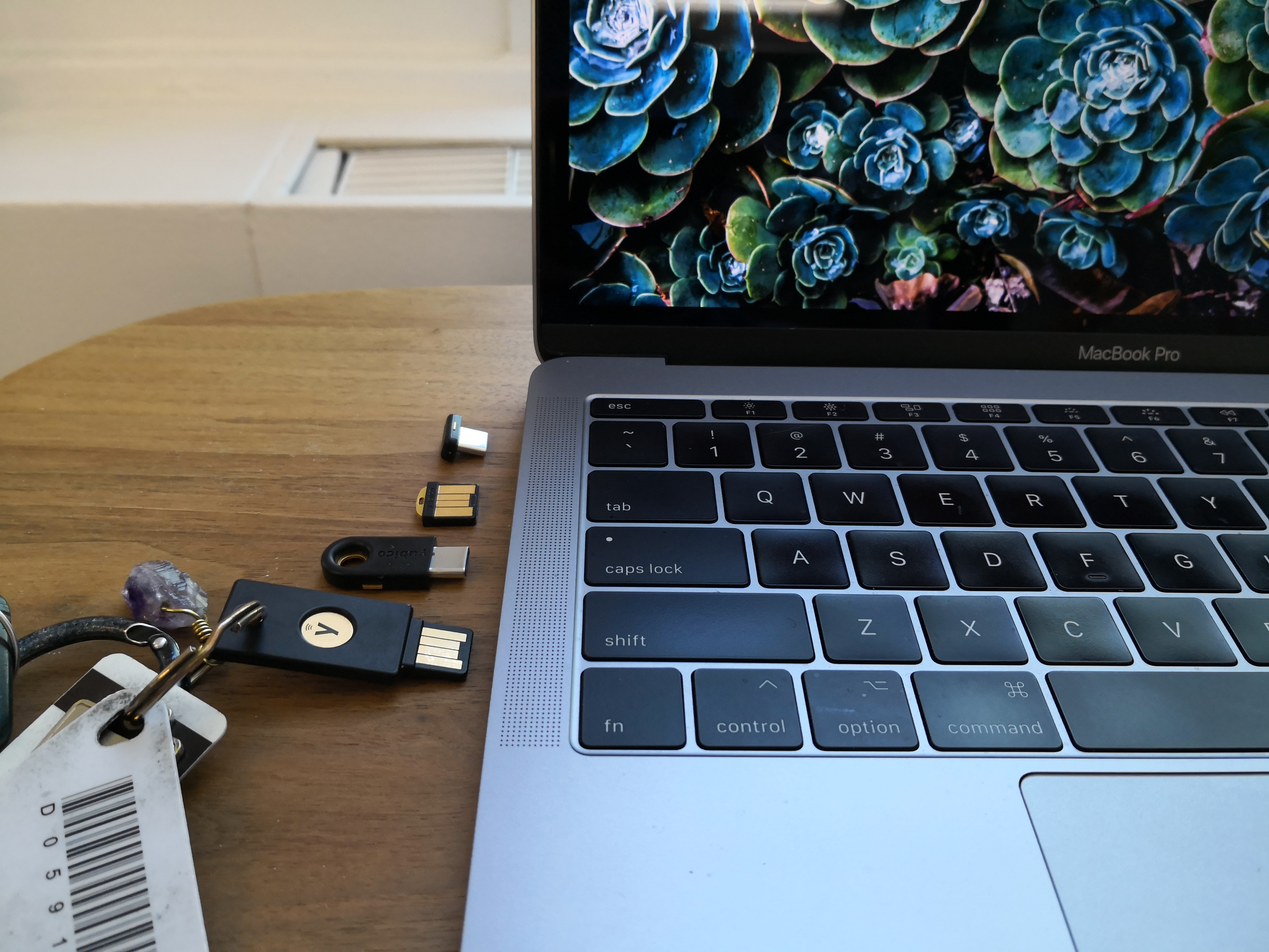
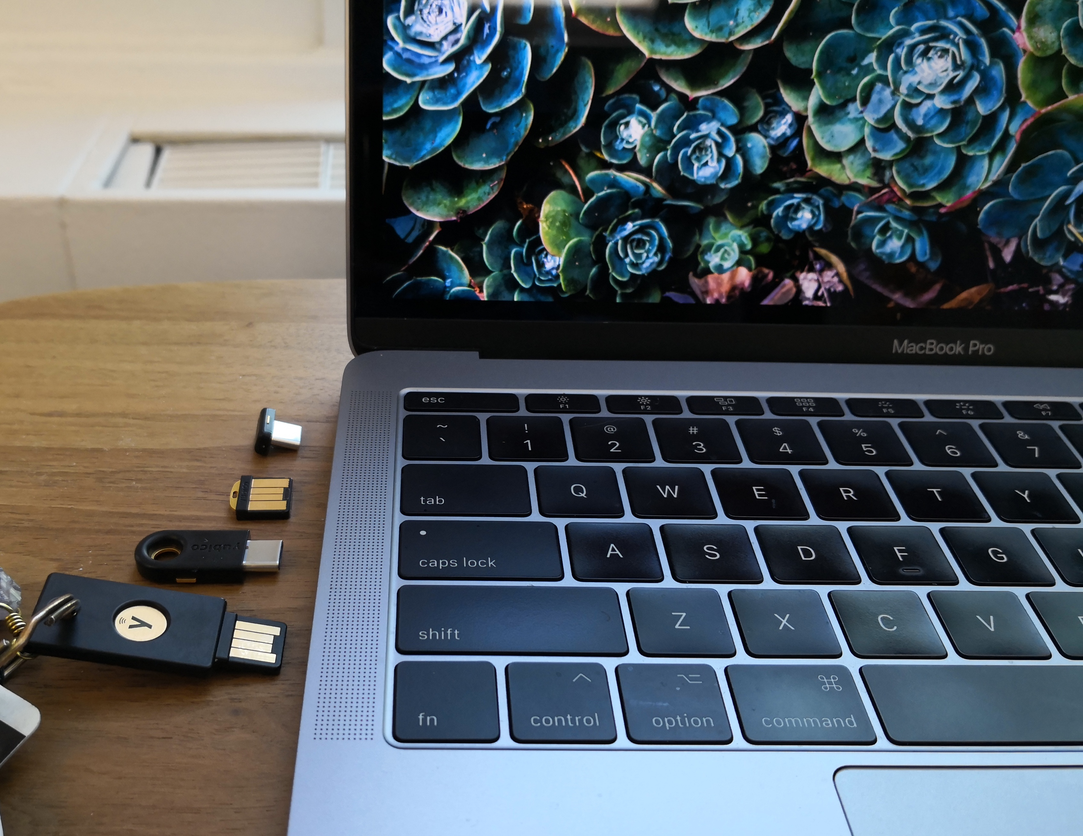
changed pic

diff --git a/content/fr/blog/posts/la-sécurité-c’est-sérieux-nous-avons-tous-des-clés-de-sécurité-au-snc.md b/content/fr/blog/posts/la-sécurité-c’est-sérieux-nous-avons-tous-des-clés-de-sécurité-au-snc.md
@@ -26,7 +26,7 @@ C’est là que j’interviens. Tout d’abord, notre équipe de sécurité a fa
 
 Donc, en termes plus techniques, lorsque vous appuyez sur le bouton doré, un exercice de questions-réponses est lancé au moyen de la cryptographie à clé publique entre la clé de sécurité et le fournisseur de services. Ce mécanisme a aussi pour effet caché d’éliminer efficacement la menace de prise de contrôle des comptes par hameçonnage et fuites de justificatifs.
 
-![Quatre différentes clés de sécurité côte à côte, l’une d’entre elles étant attachée à un porte-clés.](/img/cds/yubikey-2.jpg)
+![Quatre différentes clés de sécurité côte à côte, l’une d’entre elles étant attachée à un porte-clés.](/img/cds/yubikey-4.jpg)
 
 Nous avons ensuite remis deux clés de sécurité à chaque membre, ce qui permet aux employés de choisir le type de clé qui leur convient le mieux. Nous avons de plus pris le temps d’aider tout le monde à intégrer les clés de sécurité à leur travail et à leur vie personnelle. Ces rencontres individuelles ont aussi servi à avoir des conversations sérieuses sur la [sécurité des mots de passe](https://www.canada.ca/fr/gouvernement/systeme/gouvernement-numerique/orientation-sur-mots-passe.html), les [mises à jour logicielles](https://cyber.gc.ca/fr/correctifs-aux-applications-et-aux-se) et d’autres sujets liés à la [cyberhygiène](https://www.pensezcybersecurite.gc.ca/). 
 

diff --git a/content/en/blog/posts/we-take-security-seriously-why-everyone-at-cds-has-security-keys.md b/content/en/blog/posts/we-take-security-seriously-why-everyone-at-cds-has-security-keys.md
@@ -26,7 +26,7 @@ This is where I come in. First, our team did some research and quickly realized 
 
 So in more technical terms, when that gold button gets pressed, a challenge-response exercise is initiated using public-key cryptography between the security key and the service provider. Behind the scenes, this effectively eliminates the threat of account takeover from phishing and leaked credentials.
 
-![Three four different security keys lined up, one of which is on a set of keys.](/img/cds/yubikey-2.jpg)
+![Three four different security keys lined up, one of which is on a set of keys.](/img/cds/yubikey-4.jpg)
 
 We then rolled out two security keys to every employee allowing everyone to pick two types of keys that worked best for them. We also took the time to guide everyone through the process of integrating the security keys into their work and personal life. This one-on-one time was also used to have serious conversations about [password safety](https://www.canada.ca/en/government/system/digital-government/password-guidance.html), [software updates](https://cyber.gc.ca/en/patch-os-and-applications), and other [cyber hygiene](https://www.getcybersafe.gc.ca/) topics.
 
